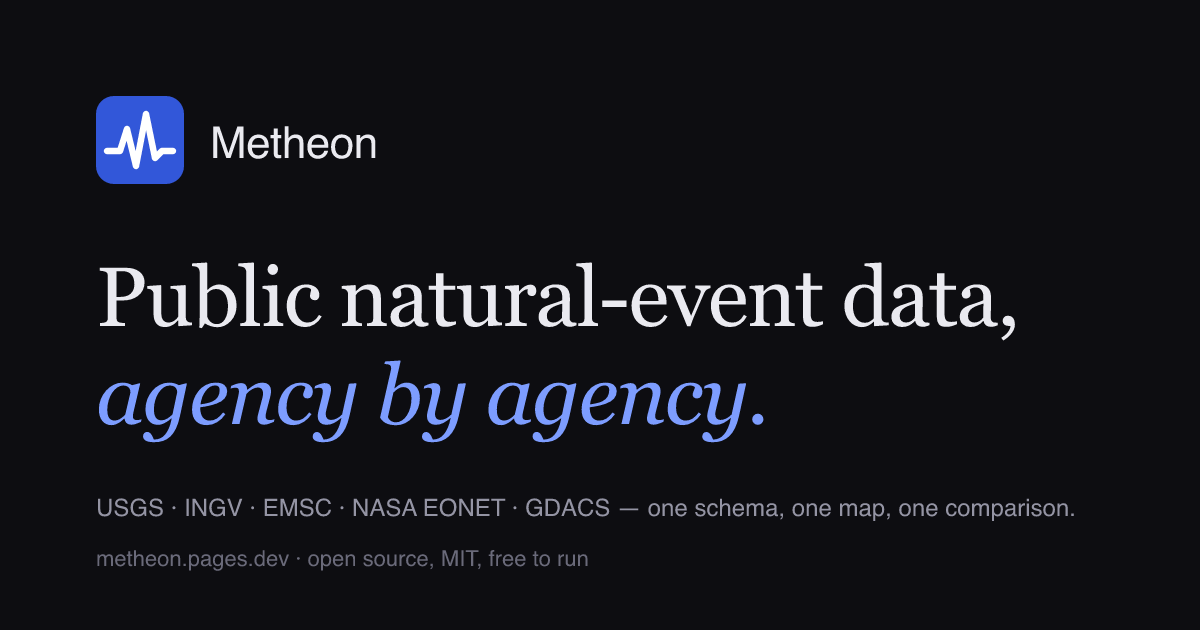
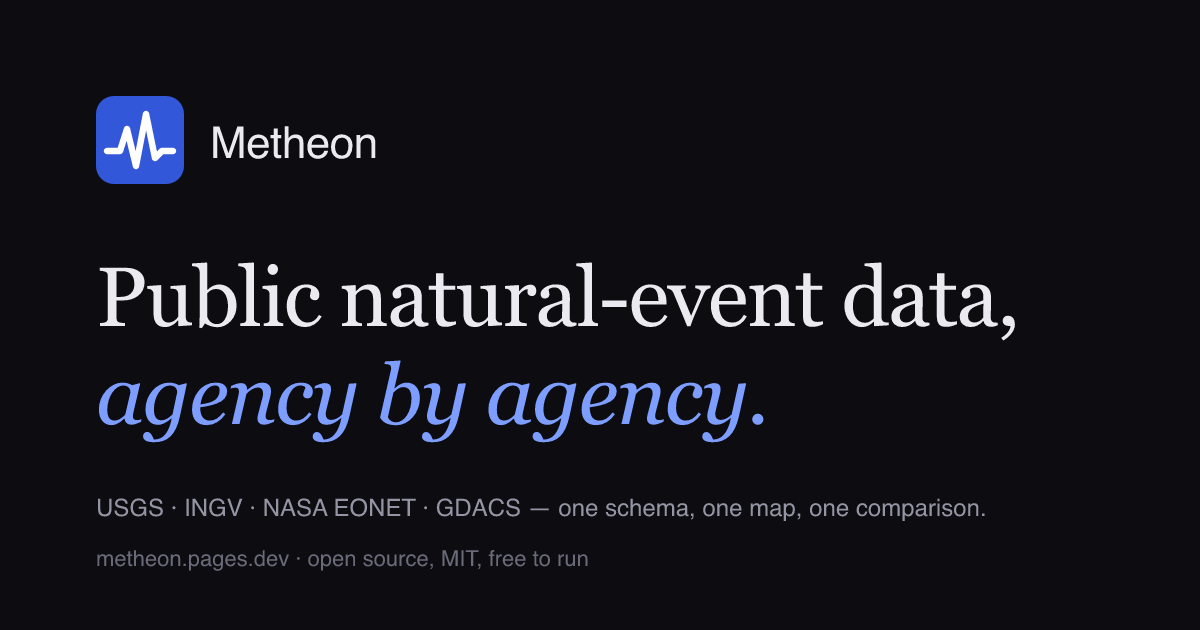
fix: the landing says four agencies everywhere, and the preview image matches

Changed region(s): [[0.2158, 0.7841, 0.8942, 0.8444]]

diff --git a/frontend/src/Landing.tsx b/frontend/src/Landing.tsx
@@ -37,7 +37,7 @@ export function Landing() {
             Public natural-event data, <em>agency by agency.</em>
           </h1>
           <p className="lede">
-            Metheon ingests earthquake catalogues and disaster alerts from five public agencies
+            Metheon ingests earthquake catalogues and disaster alerts from four public agencies
             into one schema, so the same filters, map and comparison work on all of them — and
             Gemini can say what the data shows.
           </p>
@@ -51,7 +51,7 @@ export function Landing() {
           </div>
           <dl className="facts">
             <div>
-              <dd>5</dd>
+              <dd>4</dd>
               <dt>agencies</dt>
             </div>
             <div>
